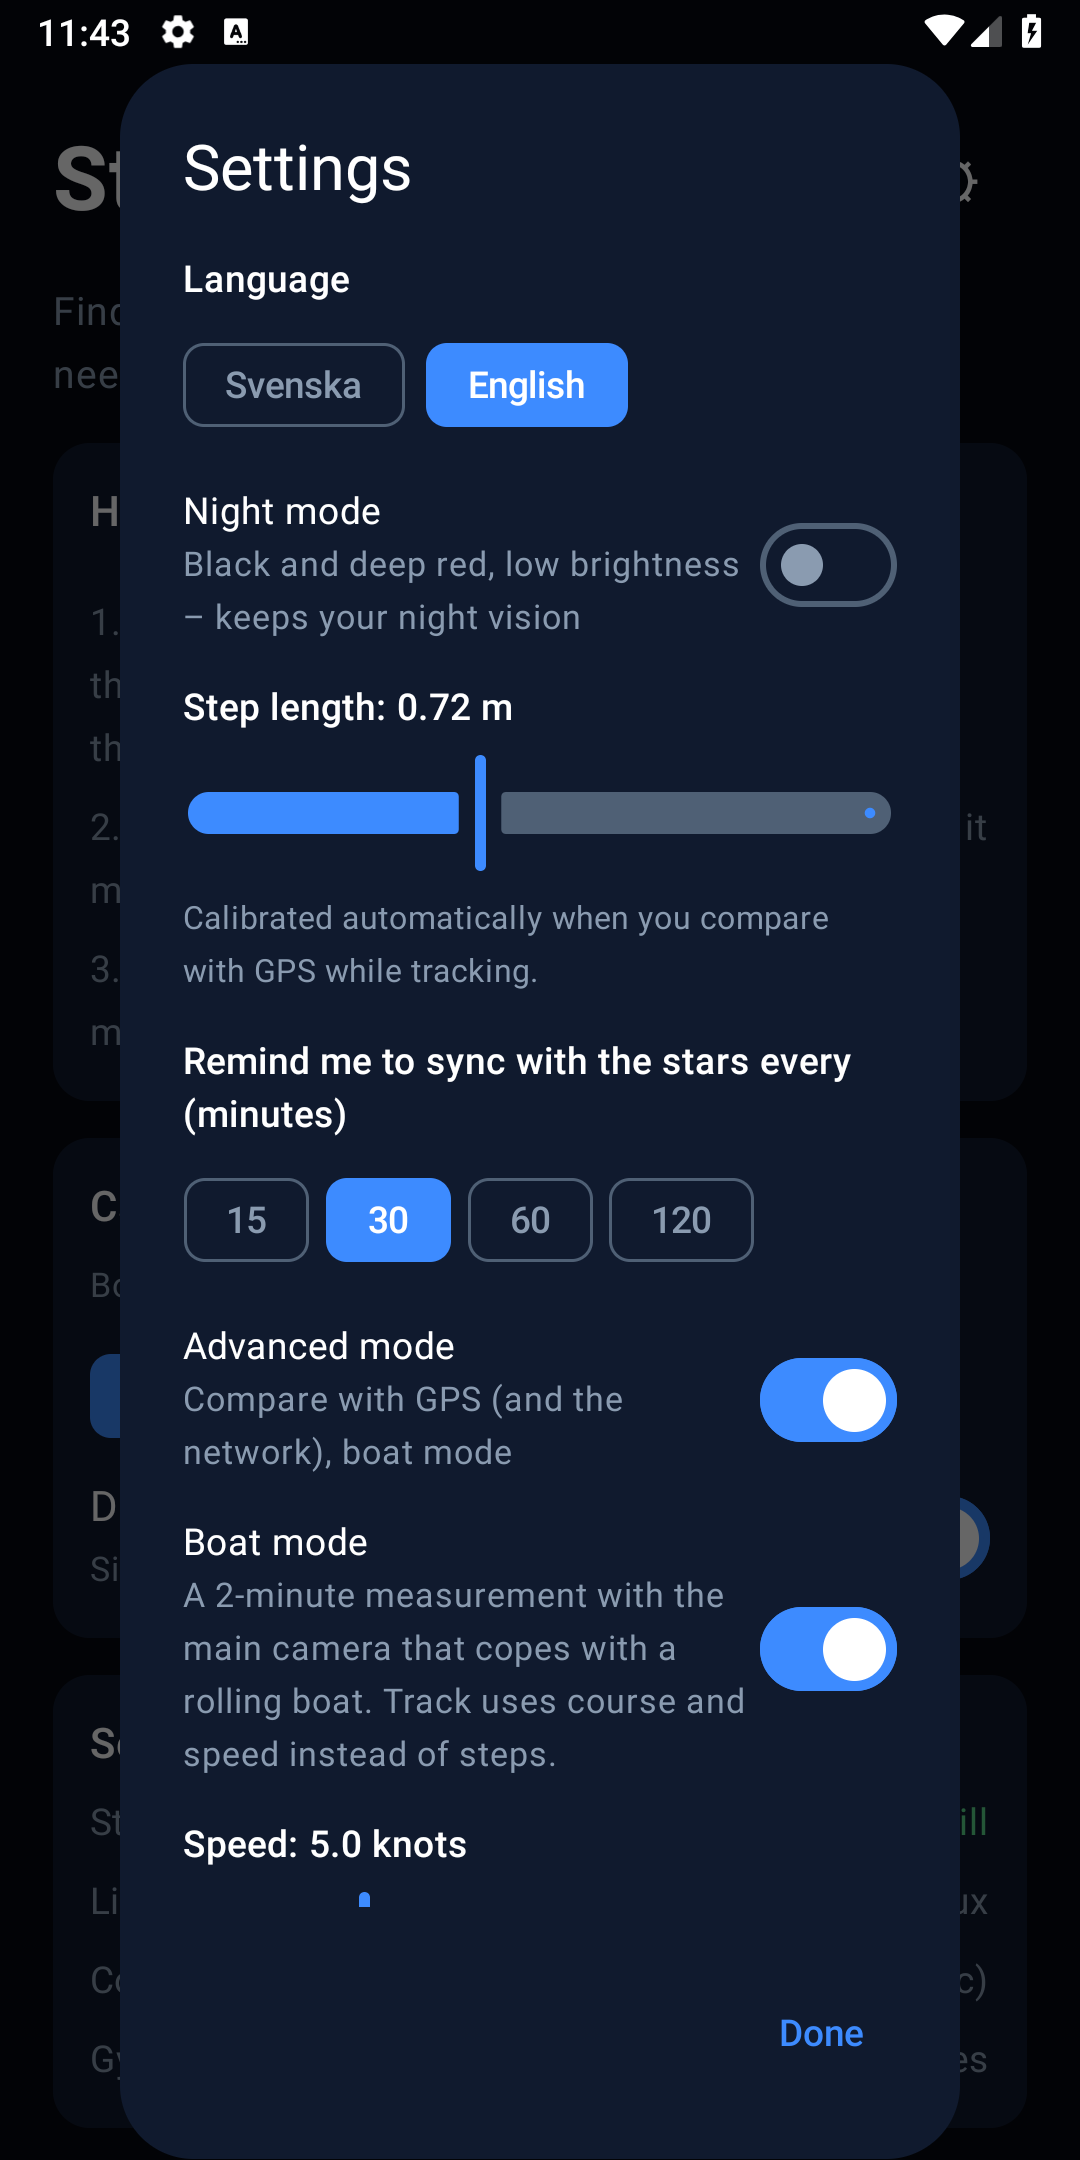
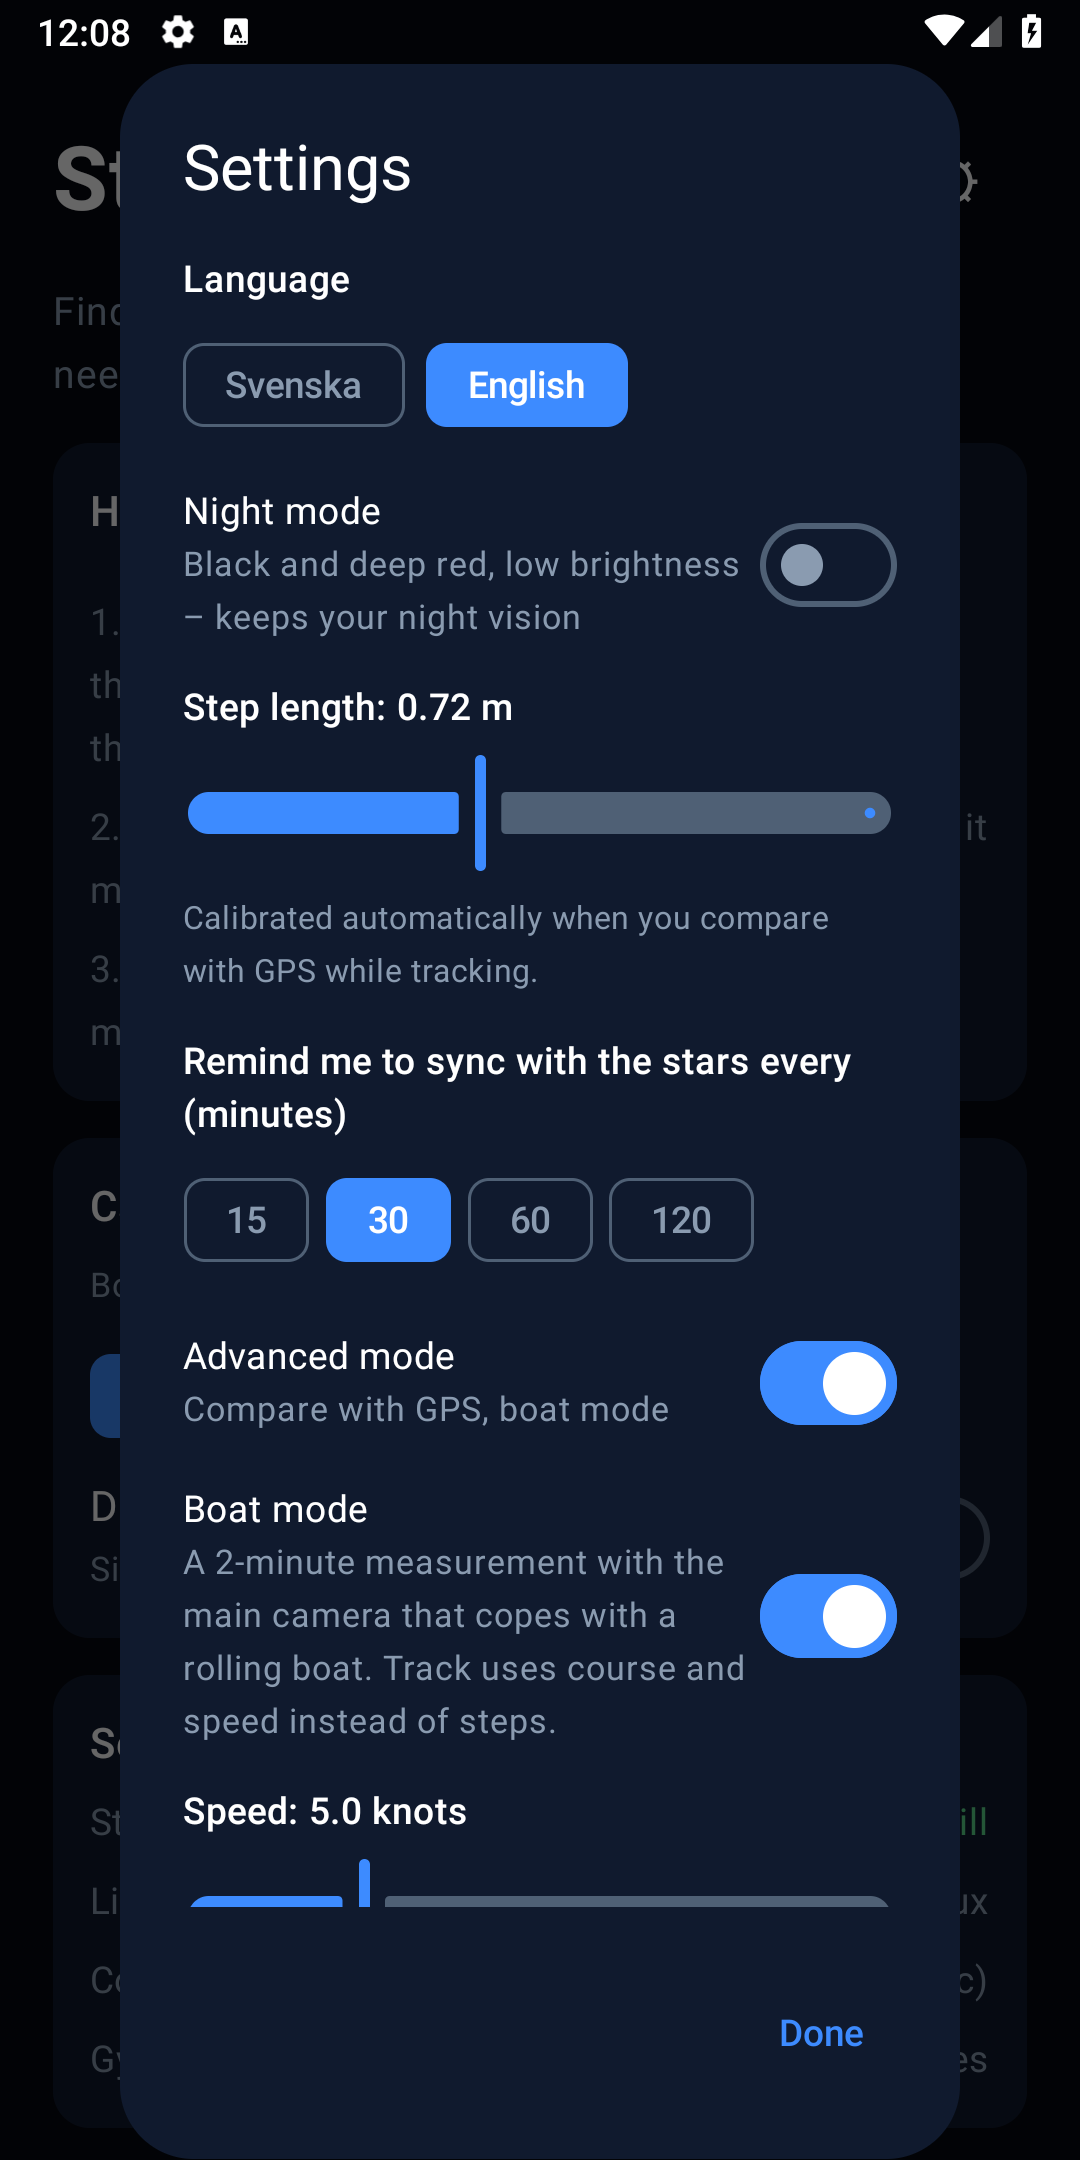
Settings screenshot and labels without the network comparison

diff --git a/assets/native/settings-labels.md b/assets/native/settings-labels.md
@@ -1,6 +1,6 @@
 # Starways Android app: settings labels
 
-Exact labels as they appear in the app (commit 61d2eb9 in sidequest-tomas/starways), in English and Swedish, with a
+Exact labels as they appear in the app (commit 3e88a08 in sidequest-tomas/starways), in English and Swedish, with a
 one-line description of what each setting does. Screenshots: `settings-en.png` (Settings with Advanced mode and Boat
 mode on) and `boat-mode-en.png` (the boat-mode measurement screen with its progress ring), both from the Android
 emulator in demo mode.
@@ -13,7 +13,7 @@ emulator in demo mode.
 | **Step length: 0.72 m** (slider 0.45–1.10 m) | **Steglängd: 0,72 m** | Length of one step for walking dead reckoning (Track). |
 | *Calibrated automatically when you compare with GPS while tracking.* (only in Advanced mode) | *Kalibreras automatiskt när du jämför med GPS under spårning.* | Comparing with GPS during Track re-estimates the step length from a mostly straight leg. |
 | **Remind me to sync with the stars every (minutes)**: 15 / 30 / 60 / 120 | **Påminn om stjärnsynk var (minuter)**: 15 / 30 / 60 / 120 | While tracking, how often the app reminds you to stop and take a new star fix (it also reminds you when the heading becomes too uncertain). Default 30. |
-| **Advanced mode**<br>*Compare with GPS (and the network), boat mode* | **Avancerat läge**<br>*Jämför med GPS (och nätet), båtläge* | Off by default. Shows the **Compare GPS** button on the map and the boat-mode settings. (The network/CAMARA comparison exists only in the developer build, not in the Play Store app, which has no internet permission.) |
+| **Advanced mode**<br>*Compare with GPS, boat mode* | **Avancerat läge**<br>*Jämför med GPS, båtläge* | Off by default. Shows the **Compare GPS** button on the map and the boat-mode settings. |
 | **Boat mode**<br>*A 2-minute measurement with the main camera that copes with a rolling boat. Track uses course and speed instead of steps.* | **Båtläge**<br>*2 minuters mätning med huvudkameran som klarar sjögång. Spåra använder kurs och fart i stället för steg.* | Shown only in Advanced mode. "Find position" becomes **Measure at sea (2 min)** / **Mät till sjöss (2 min)**. Experimental: tested in simulation and in the emulator's demo mode, not yet on a real boat. |
 | **Speed: 5.0 knots** (slider 0–20 knots) | **Fart: 5,0 knop** | Shown when Boat mode is on (also on the map). Boat speed used for dead reckoning at sea. |
 | **Forget the camera calibration** | **Glöm kamerakalibreringen** | Only when settings are opened from the map. Deletes the saved camera/accelerometer correction from the 4-turn calibration. |
